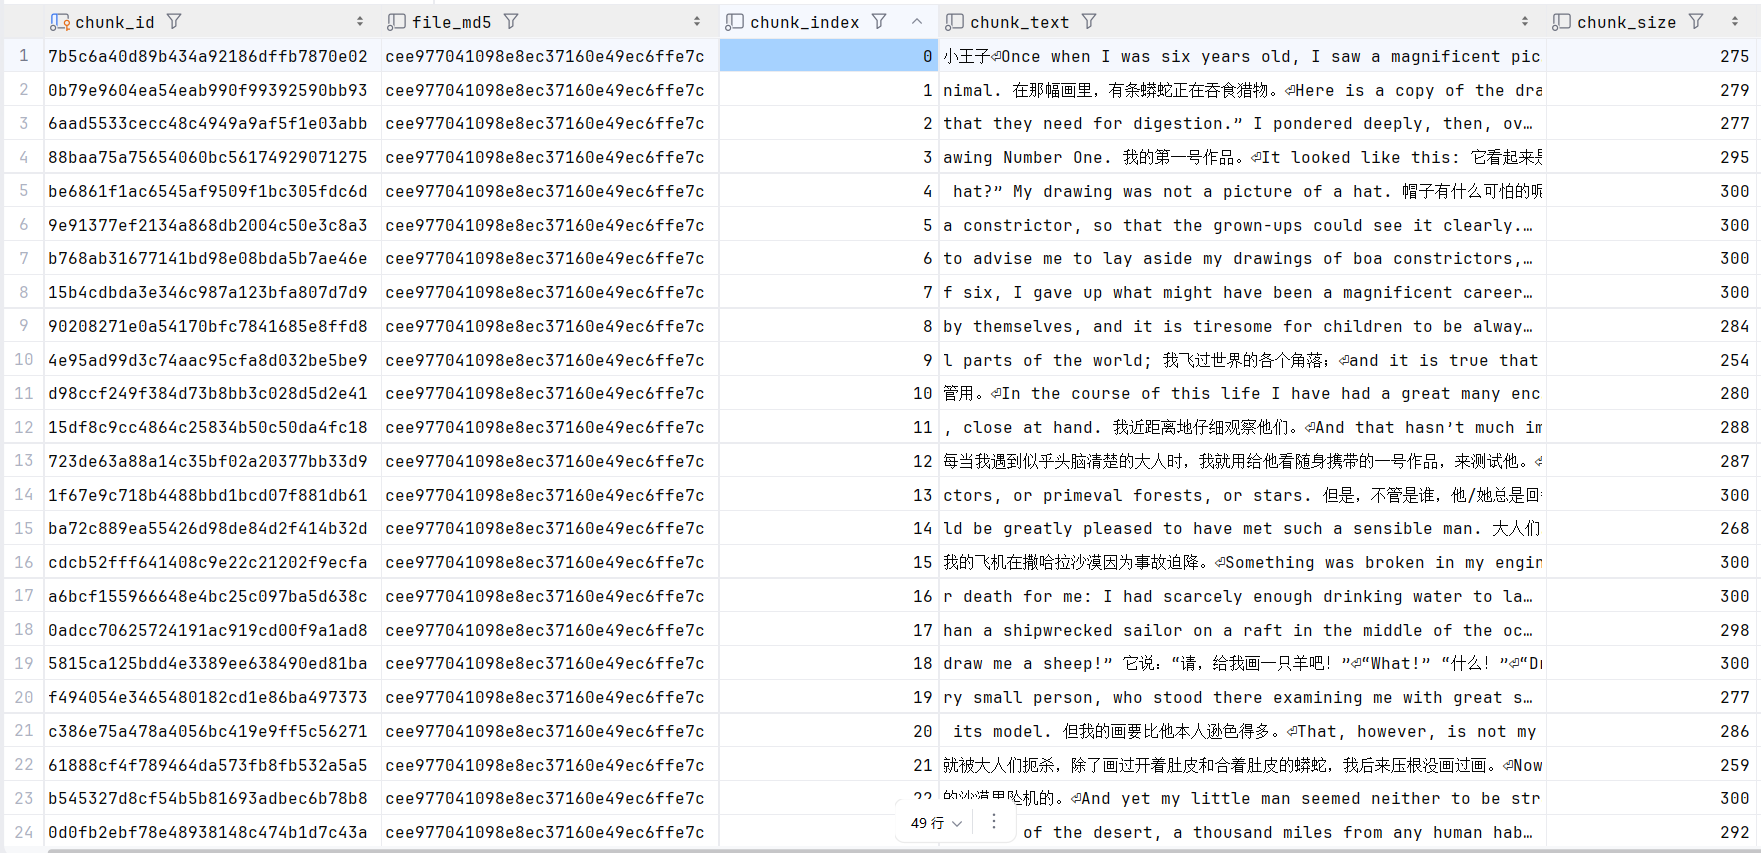
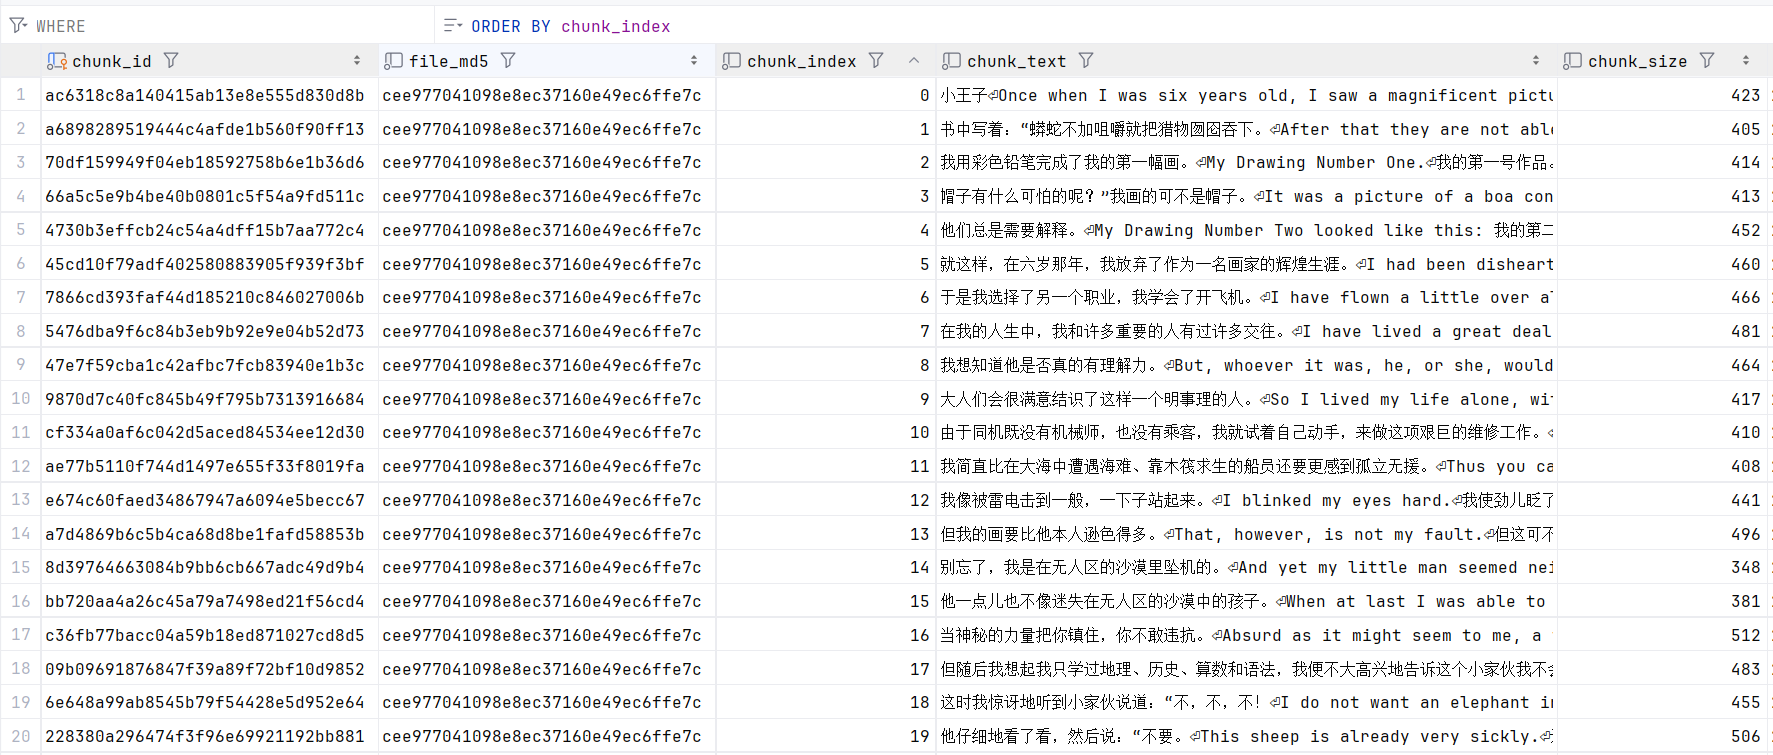
feat(chunker): 集成 LangChain4j 文本分块功能

Changed region(s): [[0.0, 0.0, 1.0, 1.0], [0.8745, 0.0, 0.9682, 0.0305]]

diff --git a/src/main/java/anthony/tikax/controller/FileController.java b/src/main/java/anthony/tikax/controller/FileController.java
@@ -1,63 +1,63 @@
-package anthony.tikax.controller;
+    package anthony.tikax.controller;
 
-import anthony.tikax.dto.file.response.FileListVO;
-import anthony.tikax.dto.file.response.FileVO;
-import anthony.tikax.entity.Result;
-import anthony.tikax.service.FileService;
-import lombok.RequiredArgsConstructor;
-import lombok.extern.slf4j.Slf4j;
-import org.springframework.web.bind.annotation.*;
-import org.springframework.web.multipart.MultipartFile;
+    import anthony.tikax.dto.file.response.FileListVO;
+    import anthony.tikax.dto.file.response.FileVO;
+    import anthony.tikax.entity.Result;
+    import anthony.tikax.service.FileService;
+    import lombok.RequiredArgsConstructor;
+    import lombok.extern.slf4j.Slf4j;
+    import org.springframework.web.bind.annotation.*;
+    import org.springframework.web.multipart.MultipartFile;
 
-import java.util.List;
+    import java.util.List;
 
 
-@RequiredArgsConstructor
-@Slf4j
-@RestController
-@RequestMapping("/file")
-public class FileController {
+    @RequiredArgsConstructor
+    @Slf4j
+    @RestController
+    @RequestMapping("/file")
+    public class FileController {
 
-    private final FileService fileService;
+        private final FileService fileService;
 
-    /**
-     * 文件上传
-     */
-    @PostMapping("/upload")
-    public Result<FileVO> upload(
-            @RequestParam("userId") Integer userId,
-            @RequestParam("files") List<MultipartFile> files
-    ) {
+        /**
+         * 文件上传
+         */
+        @PostMapping("/upload")
+        public Result<FileVO> upload(
+                @RequestParam("userId") Integer userId,
+                @RequestParam("files") List<MultipartFile> files
+        ) {
 
-        FileVO fileVO = fileService.fileUpload(userId, files);
-        return Result.success(fileVO);
+            FileVO fileVO = fileService.fileUpload(userId, files);
+            return Result.success(fileVO);
+        }
+
+        @DeleteMapping("/delete")
+        public Result<String> delete(
+                @RequestParam("userId") Integer userId,
+                @RequestParam("fileName") String fileName
+        ) {
+            fileService.deleteFile(userId, fileName);
+            return Result.success("删除成功");
+        }
+
+        @GetMapping("/download")
+        public Result<String> download(
+                @RequestParam("userId") Integer userId,
+                @RequestParam("fileName") String fileName
+        ) {
+
+            String url = fileService.getPresignedUrl(userId, fileName);
+            return Result.success(url);
+        }
+
+        @GetMapping("/fileList")
+        public Result<FileListVO> fileList(
+                @RequestParam("userId") Integer userId
+        ) {
+
+            FileListVO fileListVO = fileService.fileList(userId);
+            return Result.success(fileListVO);
+        }
     }
-
-    @DeleteMapping("/delete")
-    public Result<String> delete(
-            @RequestParam("userId") Integer userId,
-            @RequestParam("fileName") String fileName
-    ) {
-        fileService.deleteFile(userId, fileName);
-        return Result.success("删除成功");
-    }
-
-    @GetMapping("/download")
-    public Result<String> download(
-            @RequestParam("userId") Integer userId,
-            @RequestParam("fileName") String fileName
-    ) {
-
-        String url = fileService.getPresignedUrl(userId, fileName);
-        return Result.success(url);
-    }
-
-    @GetMapping("/fileList")
-    public Result<FileListVO> fileList(
-            @RequestParam("userId") Integer userId
-    ) {
-
-        FileListVO fileListVO = fileService.fileList(userId);
-        return Result.success(fileListVO);
-    }
-}

diff --git a/src/main/java/anthony/tikax/domain/service/chunk/impl/LangChain4jRecursiveTextChunker.java b/src/main/java/anthony/tikax/domain/service/chunk/impl/LangChain4jRecursiveTextChunker.java
@@ -1,0 +1,67 @@
+package anthony.tikax.domain.service.chunk.impl;
+
+import anthony.tikax.config.ChunkerProperties;
+import anthony.tikax.domain.service.chunk.Chunk;
+import anthony.tikax.domain.service.chunk.TextChunker;
+import anthony.tikax.utils.UUIDUtil;
+import dev.langchain4j.data.document.Document;
+import dev.langchain4j.data.document.splitter.DocumentSplitters;
+import dev.langchain4j.data.segment.TextSegment;
+import org.springframework.beans.factory.annotation.Autowired;
+import org.springframework.stereotype.Service;
+
+import java.time.LocalDateTime;
+import java.util.List;
+import java.util.function.Consumer;
+
+/**
+ * 使用 LangChain4j 递归分块器实现的 TextChunker。
+ */
+@Service
+public class LangChain4jRecursiveTextChunker implements TextChunker {
+
+    private final ChunkerProperties properties;
+
+    @Autowired
+    public LangChain4jRecursiveTextChunker(ChunkerProperties properties) {
+        this.properties = properties;
+    }
+
+    /**
+     * 流式生成 chunk，通过 consumer 处理。
+     */
+    @Override
+    public void chunkStream(String text, String fileMd5, Consumer<Chunk> chunkConsumer) {
+        if (text == null || text.isBlank()) {
+            return;
+        }
+
+        // 创建 LangChain4j Document
+        Document document = Document.from(text);
+
+        // 使用递归分块器：优先按 \n\n、\n、句子边界等自然分隔符分割
+        var splitter = DocumentSplitters.recursive(properties.getChunkSize(), properties.getOverlap());
+
+
+        List<TextSegment> segments = splitter.split(document);
+
+        int index = 0;
+        for (TextSegment segment : segments) {
+            String chunkText = segment.text().trim();
+
+            if (chunkText.isEmpty()) {
+                continue;
+            }
+
+            Chunk chunk = new Chunk();
+            chunk.setChunkId(UUIDUtil.UUIDGenerate());
+            chunk.setFileMd5(fileMd5);
+            chunk.setChunkIndex(index++);
+            chunk.setChunkText(chunkText);
+            chunk.setChunkSize(chunkText.length()); // 使用 length() 与原有实现保持一致
+            chunk.setCreatedAt(LocalDateTime.now());
+
+            chunkConsumer.accept(chunk);
+        }
+    }
+}

diff --git a/src/main/java/anthony/tikax/domain/service/chunk/ChunkService.java b/src/main/java/anthony/tikax/domain/service/chunk/ChunkService.java
@@ -1,6 +1,6 @@
 package anthony.tikax.domain.service.chunk;
 
-import anthony.tikax.domain.service.chunk.impl.SlidingWindowTextChunker;
+import anthony.tikax.domain.service.chunk.impl.LangChain4jRecursiveTextChunker;
 import anthony.tikax.mapper.FileMapper;
 import lombok.RequiredArgsConstructor;
 import lombok.extern.slf4j.Slf4j;
@@ -11,7 +11,7 @@ import org.springframework.stereotype.Service;
 @RequiredArgsConstructor
 public class ChunkService {
 
-    private final SlidingWindowTextChunker sliddingWindowTextChunker;
+    private final LangChain4jRecursiveTextChunker langChain4jRecursiveTextChunker;
     private final FileMapper fileMapper;
 
     public void processAndSave(String text, String fileMd5) {
@@ -23,7 +23,7 @@ public class ChunkService {
         int batchSize = 100;
         var batch = new java.util.ArrayList<Chunk>(batchSize);
 
-        sliddingWindowTextChunker.chunkStream(text, fileMd5, chunk -> {
+        langChain4jRecursiveTextChunker.chunkStream(text, fileMd5, chunk -> {
             batch.add(chunk);
             if (batch.size() >= batchSize) {
                 fileMapper.batchInsert(batch);

diff --git a/src/main/java/anthony/tikax/domain/service/chunk/impl/SlidingWindowTextChunker.java b/src/main/java/anthony/tikax/domain/service/chunk/impl/SlidingWindowTextChunker.java
@@ -8,6 +8,10 @@ import org.springframework.stereotype.Service;
 import java.time.LocalDateTime;
 import java.util.function.Consumer;
 
+/**
+ * !!!注意：手动分块效果非常之差，已废弃。建议使用 LangChain4jRecursiveTextChunker
+ * 使用滑动窗口分块器实现的 TextChunker。
+ */
 @Service
 public class SlidingWindowTextChunker implements TextChunker {
 

diff --git a/src/main/java/anthony/tikax/config/ChunkerProperties.java b/src/main/java/anthony/tikax/config/ChunkerProperties.java
@@ -1,0 +1,14 @@
+package anthony.tikax.config;
+
+import lombok.Data;
+import org.springframework.boot.context.properties.ConfigurationProperties;
+import org.springframework.stereotype.Component;
+
+@Component
+@ConfigurationProperties(prefix = "tikax.text-chunker")
+@Data
+public class ChunkerProperties {
+
+    private int chunkSize = 512;
+    private int overlap = 100;
+}
